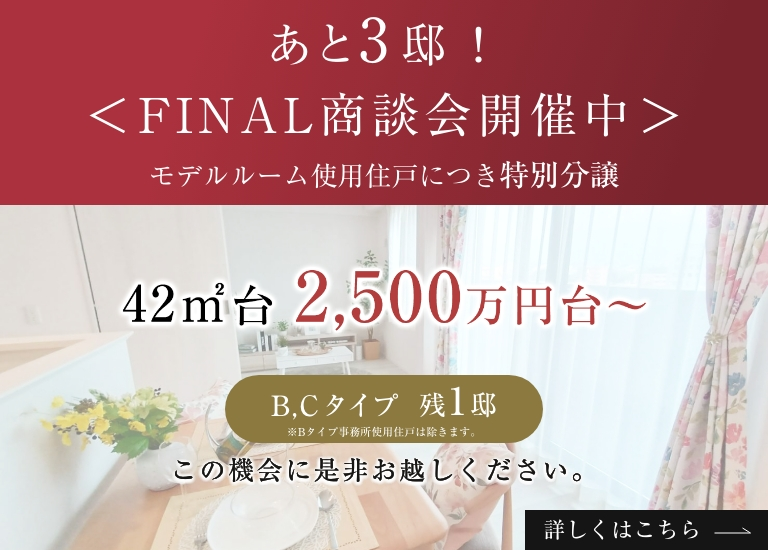
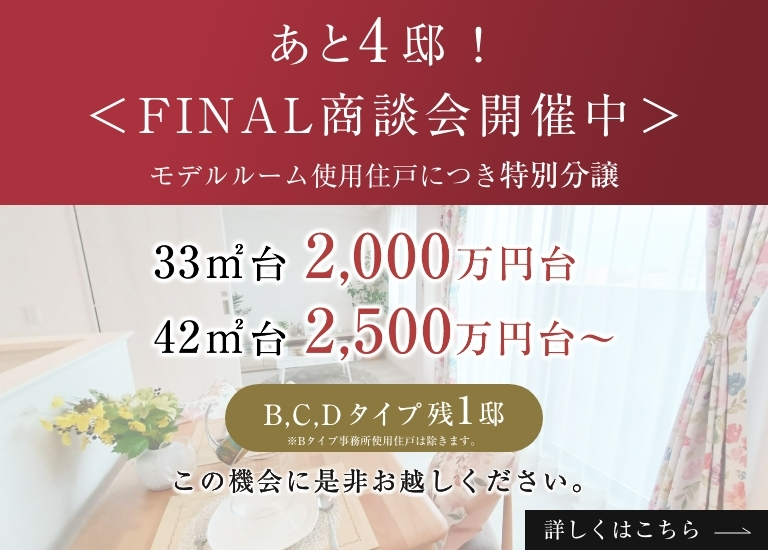
no message

diff --git a/special/modelroom/index.html b/special/modelroom/index.html
@@ -123,7 +123,7 @@ $(function(){
             <li><a href="#Btype"><img src="images/anker_btn_B_pc.jpg" class="pc"><img src="images/anker_btn_B_sp.jpg" class="sp"></a></li>
             <li><a href="#Ctype-8f"><img src="images/anker_btn_C-8f_pc.jpg" class="pc"><img src="images/anker_btn_C-8f_sp.jpg" class="sp"></a></li>
 <!--			<li><a href="#Ctype"><img src="images/anker_btn_C_pc.jpg" class="pc"><img src="images/anker_btn_C_sp.jpg" class="sp"></a></li>-->
-<!--            <li><a href="#Dtype"><img src="images/anker_btn_D_pc.jpg" class="pc"><img src="images/anker_btn_D_sp.jpg" class="sp"></a></li>-->
+            <li><a href="#Dtype"><img src="images/anker_btn_D_pc.jpg" class="pc"><img src="images/anker_btn_D_sp.jpg" class="sp"></a></li>
 <!--			<li><a href="#Atype"><img src="images/anker_btn_A_pc.jpg" class="pc"><img src="images/anker_btn_A_sp.jpg" class="sp"></a></li>-->
 
 		</ul>
@@ -703,7 +703,6 @@ $(function(){
 	</section>
 -->
     
-<!--
     <section id="Dtype" class="photo">
 
 		<div class="plan_detail">
@@ -775,11 +774,12 @@ $(function(){
 			</div>
 		</div>
         
+<!--
         <div class="link">
             <a href="../../special/modelroom_cg/" class="model_cg">CGモデルルームはこちら</a>
         </div>
-	</section>
 -->
+	</section>
 
 
 <section id="Atype" class="photo">
@@ -919,7 +919,7 @@ $(function(){
 <section class="caption">
 <div class="inner">
 <ul>
-<!--<li>※1 掲載のCGバーチャルモデルルーム画像はコーディネートは参考となります。家具・備品等に関しては配置例を示したもので実際に同じものが配置できない場合があります。あらかじめご了承ください。</li>-->
+<li>※1 掲載のCGバーチャルモデルルーム画像はコーディネートは参考となります。家具・備品等に関しては配置例を示したもので実際に同じものが配置できない場合があります。あらかじめご了承ください。</li>
 <li>※掲載の写真は、モデルルームB・Ctypeを撮影（2022年4月、2023年5月）したものにCG加工を施したものです。施工上の都合や行政官庁の指導等により変更が生じる場合がございます。 また家具・調度品・照明等は、販売価格に含まれておりません。有償・無償オプション等にはお申し込み期限がございます。詳しくは係員にお尋ねください。</li>
 <!--<li>※掲載のコーディネートは参考となります。家具・備品等に関しては配置例を示したもので実際に同じものが配置できない場合があります。あらかじめご了承ください。</li>-->
 <li>※家具付き分譲は現状でのお引渡しとなります。予めご了承ください。</li>

diff --git a/plan/index.html b/plan/index.html
@@ -105,7 +105,7 @@ j=d.createElement(s),dl=l!='dataLayer'?'&l='+l:'';j.async=true;j.src=
          </div>
         </figure>
     
-        <h3 class="plan-point"><span class="inbl">いよいよ、残<span class="big">3</span>邸！</span></h3>
+        <h3 class="plan-point"><span class="inbl">いよいよ、残<span class="big">4</span>邸！</span></h3>
     
 		<section class="ReleasePlanList">
 		<ul class="">
@@ -123,7 +123,7 @@ j=d.createElement(s),dl=l!='dataLayer'?'&l='+l:'';j.async=true;j.src=
 			<!-- <li><a href="c_menu01.html"><img src="images/plan_bt_c_menu01.png" alt="Cタイプ メニュー1"/></a></li> -->
 			<!-- <li><a href="c_menu02.html"><img src="images/plan_bt_c_menu02.png" alt="Cタイプ メニュー2"/></a></li> -->
 
-			<li><img src="images/plan_bt_d.png" alt="Dタイプ"/></li>
+            <li><a href="d.html"><img src="images/plan_bt_d.png" alt="Dタイプ"/></a></li>
 
 
 			<li><!--<a href="e.html"></a>--><img src="images/plan_bt_e.png" alt="Eタイプ"/></li>

diff --git a/member/plan/index.html b/member/plan/index.html
@@ -101,7 +101,7 @@ j=d.createElement(s),dl=l!='dataLayer'?'&l='+l:'';j.async=true;j.src=
 						<!-- <li><a href="c_menu01.html"><img src="images/plan_bt_c_menu01.png" alt="Cタイプ メニュー1"/></a></li> -->
 						<!-- <li><a href="c_menu02.html"><img src="images/plan_bt_c_menu02.png" alt="Cタイプ メニュー2"/></a></li> -->
 						<!-- <li></li> -->
-						<li><img src="images/plan_bt_d.png" alt="Dタイプ"/></li>
+                        <li><a href="d.html"><img src="images/plan_bt_d.png" alt="Dタイプ"/></a></li>
 						<li><!--<a href="e.html"></a>--><img src="images/plan_bt_e.png" alt="Eタイプ"/></li>
 						<!-- <li><a href="e_menu01.html"><img src="images/plan_bt_e_menu01.png" alt="Eタイプ メニュー1"/></a></li> -->
 						<!-- <li><a href="e_menu02.html"><img src="images/plan_bt_e_menu02.png" alt="Eタイプ メニュー2"/></a></li> -->
